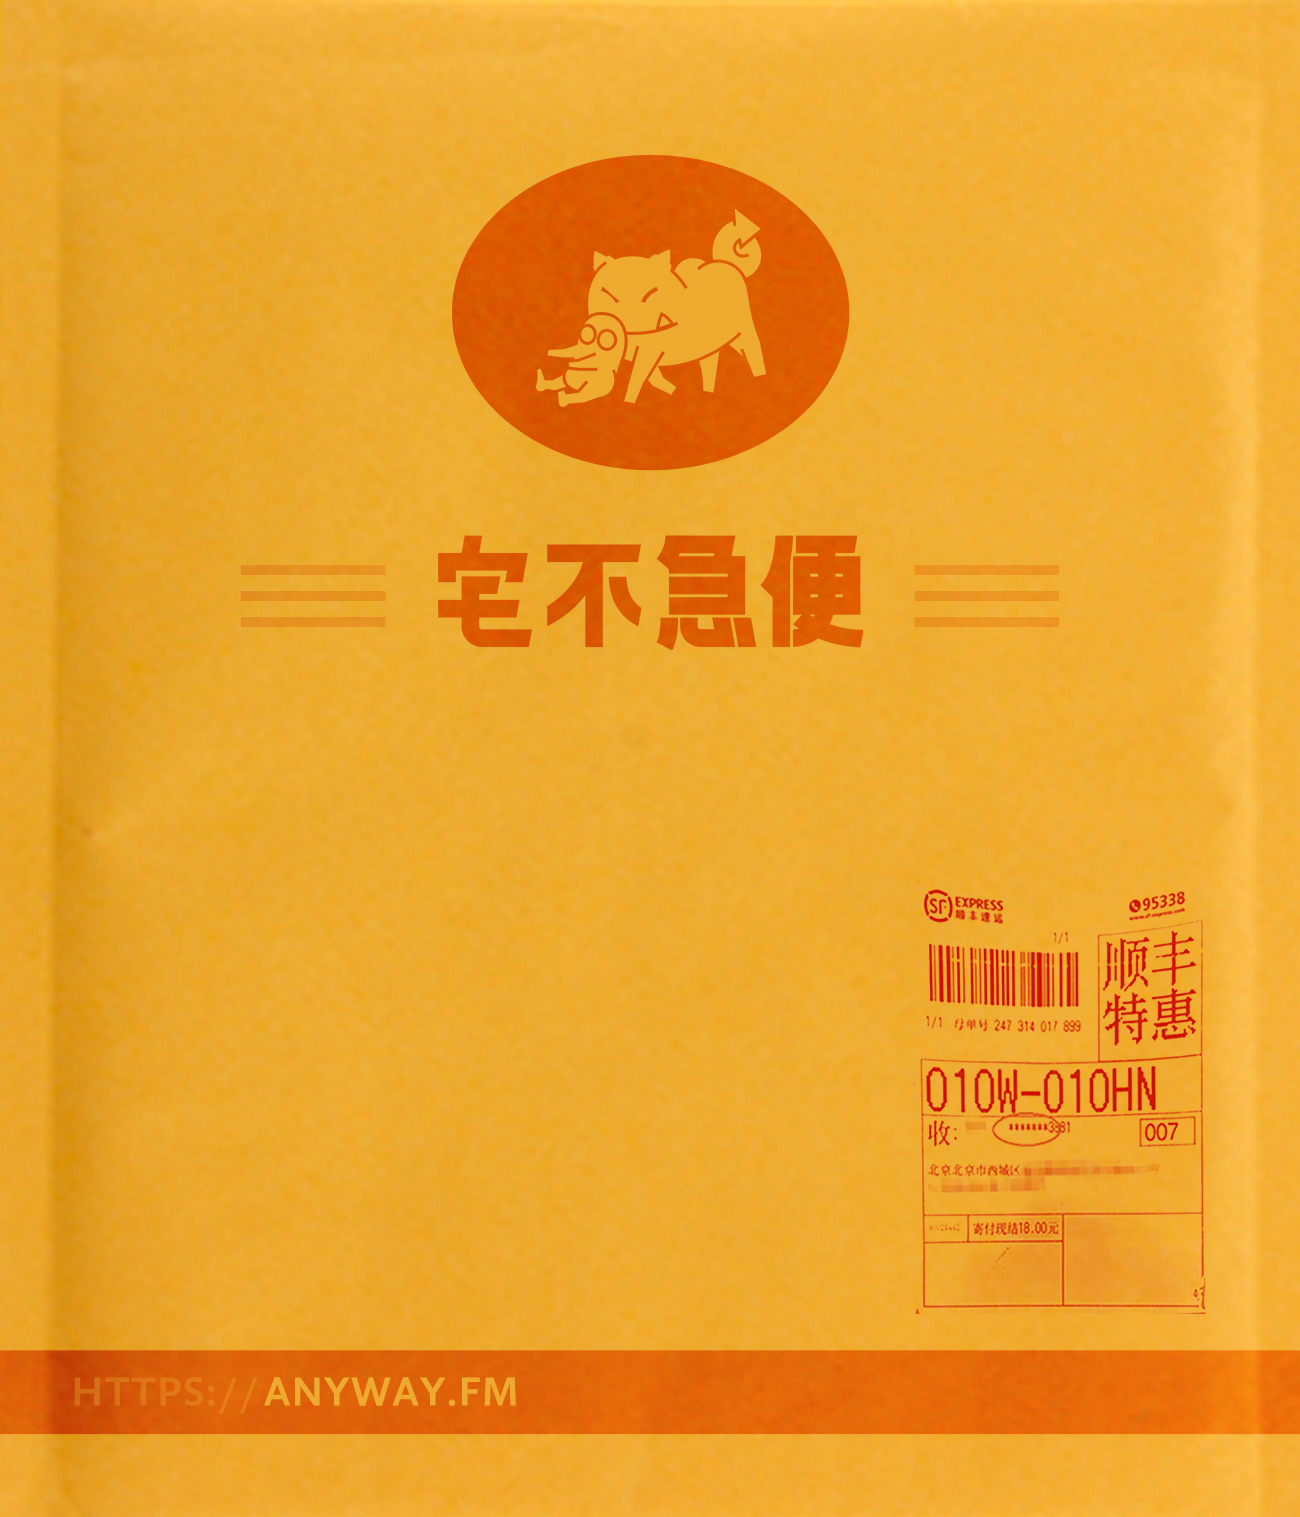
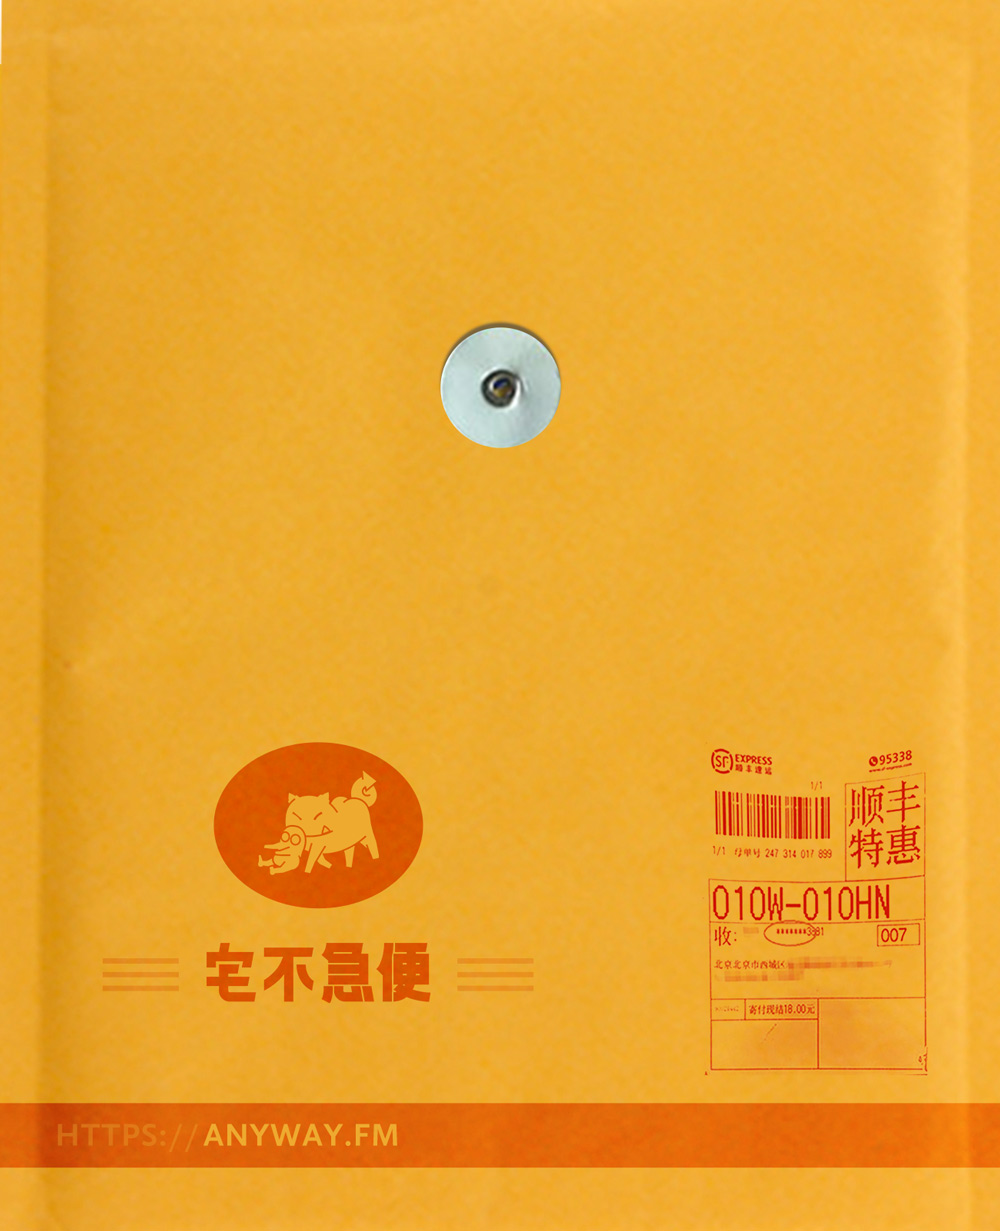
更新了动画

diff --git a/assets/styles.css b/assets/styles.css
@@ -34,7 +34,7 @@ body{
 	background: url(bg.jpg) no-repeat center center;
 	background-size: cover;
 	background-attachment: fixed;
-	z-index: -1;
+	background: #333;
 }
 .wrapper{
 	top: 0; left: 0;
@@ -44,51 +44,30 @@ body{
 	justify-content: center; align-items: center;
 }
 /* ~Package */
-.package-wrapper{
-	z-index: 2;
+.package-wrapper-3{
+	display: none;
 }
 .package{
-	width: var(--packageWidth); height: calc(var(--packageWidth) * 1.16666);
-	perspective: 1000px;
+	width: var(--packageWidth); height: calc(var(--packageWidth) * 1.4);
 }
-.content > .inner{
-	position: relative;
-}
-.content-part{
-	position: absolute;
-	left: 0; top: 0;
-	width: 100%; height: 100%;
-}
-.package-top{
-	width: 100%; height: 20%;
-	transform-origin: top;
-	background: url(package-top.png) no-repeat center center;
-	background-size: cover;
-	/* box-shadow: 0 10px 30px rgba(0,0,0,.9); */
-}
-.package-cover{
-	background: url(package.jpg) no-repeat;
-	background-size: cover;
+.package-1{
+	background: url(package-2.png) no-repeat center center;
+	background-size: contain;
 }
 
+.package-2{
+	background: url(package.jpg) no-repeat center bottom;
+	background-size: contain;
+}
+
+
 /* ~envelope */
-.envolope-wrapper{
-	z-index: 3;
-}
-[data-stage="1"] .envolope-wrapper{
-	z-index: 1;
-}
-[data-stage="2"] .envolope-wrapper{
-	z-index: 6;
-}
 .envelope{
-	background: #fff;
 	height: calc(var(--envelopeWidth) * 0.5);
 	width: var(--envelopeWidth);
 	transition: all .1s ease-out;
-	transform: rotate(33deg);
+	transform: rotate(55deg);
 	/* box-shadow: 0 15px 20px rgba(0,0,0,.4); */
-	box-shadow:0px 34px 33px -5px rgba(0,0,0,.29),0px 17px 28.73px -5px rgba(0,0,0,.44);
 }
 .envelope > .inner{
 	position: relative;
@@ -105,9 +84,6 @@ body{
 	opacity: 1;
 	/* backdrop-filter: blur(4px); */
 }
-[data-stage = "2"] .envelope-top{
-	z-index: 14;
-}
 /* ~Letter */
 .letter{
 	display: block;
@@ -119,13 +95,6 @@ body{
 	transform: rotate(90deg);
 	transform-origin: 50% 50%;
 	left: calc(var(--envelopeWidth) * .3); top: calc(var(--envelopeWidth) * .05 * -1);
-	z-index: 8;
-}
-[data-stage = "1"] .letter{
-	display: none;
-}
-[data-stage = "2"] .letter{
-	z-index: 10;
 }
 [data-stage = "4"] .letter{
 	transform: scale(2.6) translateY(-12vh) rotate(0) !important;
@@ -145,10 +114,12 @@ body{
 	background-size: contain;
 	pointer-events: none;
 }
-[data-stage = "2"] .envelope-cover,
-[data-stage = "3"] .envelope-cover,
-[data-stage = "4"] .envelope-cover{
-	z-index: 13;
+.envelope-bg{
+	background: #0f0;
+	box-shadow:0px 34px 33px -5px rgba(0,0,0,.29),0px 17px 28.73px -5px rgba(0,0,0,.44);
+	position: absolute;
+	left: 0; top: 0;
+	width: 100%; height: 100%;
 }
 .letter > .inner{
 	position: relative;
@@ -205,3 +176,7 @@ body{
 	background: #0f0;
 	width: 1rem; height: 1rem;
 }
+
+/* ~Z-index */
+
+[data-stage = "1"] .package-wrapper-3{display: flex;}

diff --git a/assets/main.js b/assets/main.js
@@ -4,7 +4,7 @@ var stage1Height = 700
 var stage2Height = 700
 var stage3Height = 600
 
-var envelopeUpDistance = 60
+var envelopeUpDistance = 50
 var envelopeMiddleDistance = 10
 var envelopeDownDistance = 30
 var envelopeTilt =  55
@@ -24,14 +24,17 @@ window.onscroll = function(){
     var stage1Progress = window.scrollY / stage1Height
 
     //Package
-    var packageTopRotate = - stage1Progress * 180
-    var brightness = 0.3 + stage1Progress * 0.7
-    anime({
-      targets: '.package-top',
-      rotateX: packageTopRotate,
-      filter: "brightness(" + brightness + ")",
-      duration: 30
-    });
+    var packageTopRotate = Math.min( stage1Progress * 2 * 180, 180)
+    var brightness = Math.max( 1 - stage1Progress * 2 * 0.8,0.2)
+    // if (packageTopRotate > 90) {
+    //   document.getElementById('package-top').style.zIndex = "0"
+    // }
+    // anime({
+    //   targets: '.package-top',
+    //   rotateX: packageTopRotate,
+    //   filter: "brightness(" + brightness + ")",
+    //   duration: 30
+    // });
 
     //Envelope
     var envelopeMove = - stage1Progress * envelopeUpDistance
@@ -65,12 +68,14 @@ window.onscroll = function(){
       duration: 30
     });
     if (stage2Progress > 0.8) {
-      document.getElementById('envelope-top').style.zIndex = "6"
+      document.getElementById('envelope-top').style.zIndex = "2"
+      document.getElementById('letter').style.zIndex = "5"
+      document.getElementById('envelope-cover').style.zIndex = "6"
       anime({
         targets: '.letter',
-        rotate: 90,
+        rotate: 75,
         translateX:  "-8vh",
-        duration: 130
+        duration: 900
       });
 
     }
@@ -105,7 +110,7 @@ window.onscroll = function(){
 }
 
 function intoStage(n){
-  console.log("在第 "+n+" 阶段")
+  // console.log("在第 "+n+" 阶段")
   document.getElementById('main').dataset.stage = n
   stage = n
 }

diff --git a/index.html b/index.html
@@ -31,37 +31,42 @@
 	<div class="main" data-stage="1" id="main">
 		<div class="bg"></div>
 
-		<div class="wrapper package-wrapper" id="wrapper">
+		<div class="wrapper package-wrapper package-wrapper-1">
+			<div class="object package package-1"></div>
+		</div>
 
-			<div class="object package" id="package">
-				<div class="content-inner">
-					<div class="content-part package-top" id="package-top">
-
-					</div>
-					<div class="content-part package-cover"></div>
-				</div>
-			</div>
-
+		<div class="wrapper package-wrapper package-wrapper-2">
+			<div class="object package package-2"></div>
 		</div>
 
 		<div class="wrapper envolope-wrapper">
 			<div class="object envelope" id="envelope">
 				<div class="inner">
 
-					<div class="envelope-cover"></div>
+					<div class="envelope-bg"></div>
 
-					<a class="letter" onclick="openLetter()">
+					<a class="letter" onclick="openLetter()" id="letter">
 						<div class="inner">
 							<div class="light light-1"><img src="assets/light-1.jpg"/></div>
 						</div>
 					</a>
 
+					<div class="envelope-cover" id="envelope-cover"></div>
 
 					<div class="envelope-top" id="envelope-top"></div>
+
 
 				</div>
 			</div>
 		</div>
+
+		<div class="wrapper package-wrapper package-wrapper-3">
+
+			<div class="object package package-2">
+			</div>
+
+		</div>
+
 
 		<div class="indicator">
 			<div class="inner"></div>
